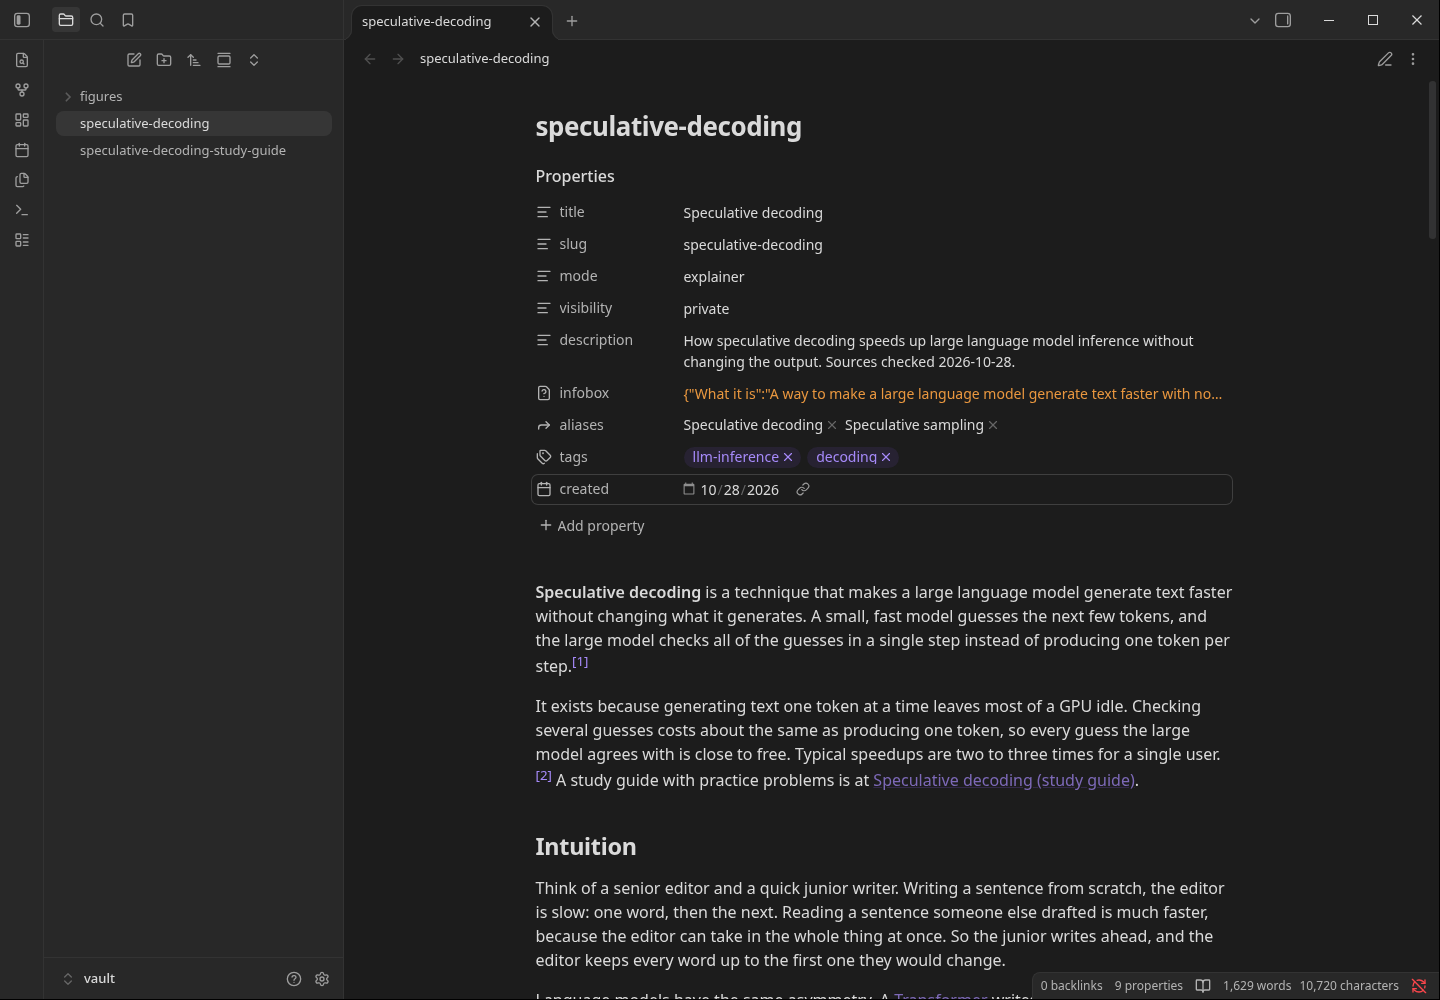
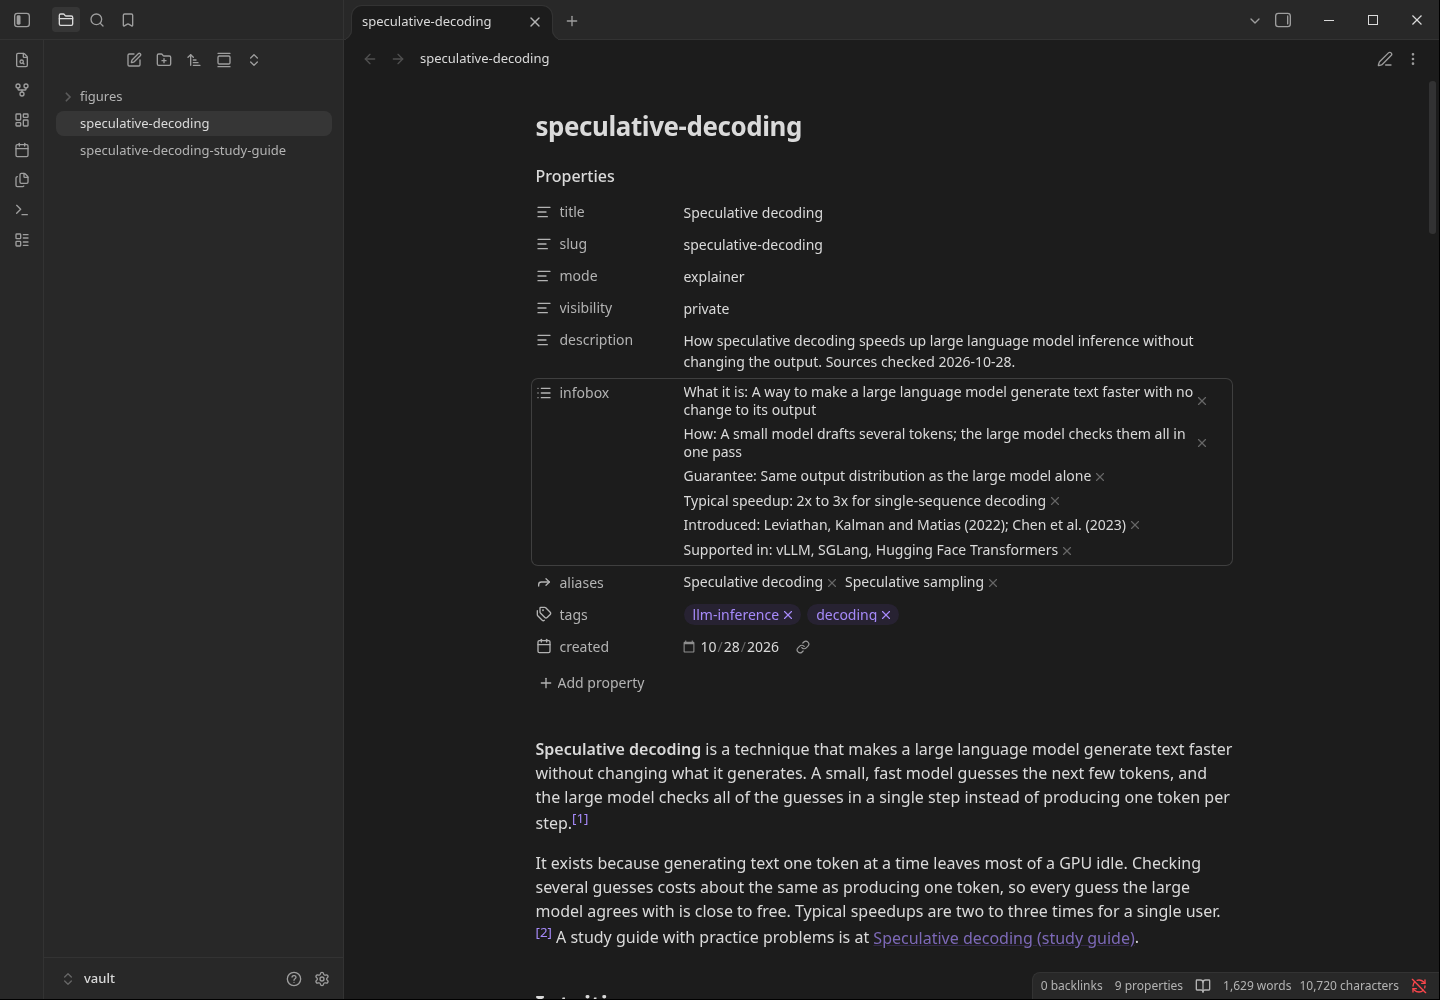
Infobox as a list of Label: value strings so Obsidian shows clean properties; tree/flow/comparison component rule

Changed region(s): [[0.375, 0.372, 0.8438, 1.0], [0.375, 0.372, 0.4375, 0.527]]

diff --git a/test/render.test.js b/test/render.test.js
@@ -305,3 +305,16 @@ test('See also drops entries with no page behind them, and hides the section whe
   const body = renderArticle('Lead.\n\n## Body\n\n- Compare [[Ghost page]].\n', { known });
   assert.match(body, /<li>Compare Ghost page\.<\/li>/);
 });
+
+test('infobox as a list of "Label: value" strings: rows in order, empty values hidden; the examples use it so Obsidian shows a clean list property', () => {
+  const out = renderArticle('---\ntitle: T\ninfobox:\n  - "First: one"\n  - "Released:"\n  - "Ratio: 2:1 at best"\n---\nLead.\n', { known: new Set() });
+  const box = out.match(/<table class="infobox"[\s\S]*?<\/table>/)[0];
+  const labels = [...box.matchAll(/<th[^>]*>([^<]*)<\/th>/g)].map((m) => m[1]);
+  assert.deepEqual(labels, ['First', 'Ratio']);
+  assert.match(box, /2:1 at best/);
+  const matter = require('gray-matter');
+  for (const f of ['speculative-decoding.md', 'speculative-decoding-study-guide.md']) {
+    const data = matter(fs.readFileSync(path.join(__dirname, '..', 'examples', f), 'utf8')).data;
+    assert.ok(Array.isArray(data.infobox) && data.infobox.every((r) => typeof r === 'string'), `${f} infobox is a list of strings`);
+  }
+});

diff --git a/skill/SKILL.md b/skill/SKILL.md
@@ -14,7 +14,7 @@ Work through this before and after writing. Each item is expanded further down.
 3. **Sources first.** Read the real repos, files, papers and docs before writing. Cite every claim that is not common knowledge to a source you opened. Never invent a fact, number, URL, author or quote; if a fact is not in your sources, leave it out.
 4. **Style.** No emojis. No em dashes (use a comma, colon, parentheses or a new sentence). No eyebrow labels above headings. No 01/02/03 numbering; the renderer's Contents numbering (1, 1.1, 2) is the only numbering. No icons.
 5. **Quality bar.** A plain-language lead a newcomer understands on first read, intuition before definitions or formalism, and at least one fully worked walk-through with concrete values.
-6. **Components.** When the content is structurally a comparison, use the component for it rather than prose (see Components).
+6. **Components.** When the content is structurally a tree, a flow or a comparison, use the component for it rather than prose (see Components).
 7. **Publish.** Frontmatter has `title`, `slug`, `mode` and `visibility`; the render runs with no warnings; then follow Publishing exactly.
 
 The output is one Markdown file. It must read cleanly as a plain note in Obsidian or any Markdown viewer, and it must render to a full article page with `node renderer/render.js article.md > article.html`. The Markdown file is the source of truth; never edit the generated HTML.
@@ -144,7 +144,7 @@ A `## See also` section is a plain list of `[[wikilinks]]`, one per entry, optio
 
 Renderer components and when to use each. More components and their syntax will be documented here (wiki#6); until then the available ones are wikilinks, figures, tables, footnotes, highlights, callouts, and the study-mode blocks above.
 
-- Use a component whenever the content is structurally a comparison (a table, or a wrong/right pair in study mode), a flow (a figure), or a set of steps (a numbered list), instead of describing the structure in prose.
+- Use a component whenever the content is structurally a tree (a nested list: file trees, taxonomies, decision trees), a flow (a figure), a comparison (a table, or a wrong/right pair in study mode), or a set of steps (a numbered list), instead of describing the structure in prose.
 
 ## Publishing
 
@@ -173,10 +173,10 @@ mode: explainer
 visibility: private
 description: "One muted line shown under the title: scope, date written, and any caveat."
 infobox:
-  What it is: A way to make a large language model generate text faster with no change to its output
-  How: A small model drafts several tokens; the large model checks them all in one pass
-  Typical speedup: 2x to 3x for single-sequence decoding
-  Introduced: "Leviathan, Kalman and Matias (2022)"
+  - "What it is: A way to make a large language model generate text faster with no change to its output"
+  - "How: A small model drafts several tokens; the large model checks them all in one pass"
+  - "Typical speedup: 2x to 3x for single-sequence decoding"
+  - "Introduced: Leviathan, Kalman and Matias (2022)"
 image: figures/diagram.svg
 caption: "Optional infobox image caption"
 tags: [llm-inference]
@@ -187,7 +187,7 @@ created: 2026-10-28
 - `aliases`: always include the title, so `[[Title]]` links resolve in Obsidian to the slug-named file; add other names people search for.
 - `mode`: `explainer` (default) or `study`. Any other value falls back to explainer with a warning. It never shows on the page.
 - `visibility`: `private` (default for articles an agent writes) or `public` (only when the owner says so). Used by the publishing site; see Publishing.
-- `infobox`: four to eight short rows. In an explainer, hard facts (what it is, how, key numbers, introduced by, where it is supported); in study mode, the quick-reference card. Keep values short and plain text (Obsidian shows frontmatter as properties); no long formulas that would be cramped or cut off at phone width. Quote a value that contains a colon. Rows with an empty value are skipped. A list of `"Label: value"` strings also works, and `infobox_caption` overrides the caption, which defaults to the title.
+- `infobox`: four to eight short rows. In an explainer, hard facts (what it is, how, key numbers, introduced by, where it is supported); in study mode, the quick-reference card. Keep values short and plain text (Obsidian shows frontmatter as properties); no long formulas that would be cramped or cut off at phone width. Write it as a list of quoted `"Label: value"` strings, one per row, in display order; the label ends at the first colon. Obsidian's properties panel cannot show a nested map (it shows one as raw JSON), but it shows a list cleanly. A nested `Label: value` map still renders the same rows. A row with an empty value (`"Released:"`) is skipped. `infobox_caption` overrides the caption, which defaults to the title.
 - `image` and `caption` are optional and show as the first infobox row.
 
 ## Checklist before finishing

diff --git a/examples/speculative-decoding-study-guide.md b/examples/speculative-decoding-study-guide.md
@@ -6,12 +6,12 @@ mode: study
 visibility: private
 description: "Study-mode article for a course or interview on LLM inference. For the plain explanation see the explainer. Sources checked 2026-10-28."
 infobox:
-  The idea: "A small model guesses the next few tokens; the big model checks all the guesses in one step"
-  Memory phrase: "Draft cheap, verify once, keep the agreeing prefix"
-  Use it when: "One user is waiting on a big model and the GPU is idle between memory reads"
-  Tiny example: "Draft *on the mat*; the big model agrees with *on the*, writes *sofa* itself: 3 tokens for one big step"
-  Guarantee: "Same output distribution as the big model alone"
-  Typical speedup: "2x to 3x for single-sequence decoding"
+  - "The idea: A small model guesses the next few tokens; the big model checks all the guesses in one step"
+  - "Memory phrase: Draft cheap, verify once, keep the agreeing prefix"
+  - "Use it when: One user is waiting on a big model and the GPU is idle between memory reads"
+  - "Tiny example: Draft *on the mat*; the big model agrees with *on the*, writes *sofa* itself: 3 tokens for one big step"
+  - "Guarantee: Same output distribution as the big model alone"
+  - "Typical speedup: 2x to 3x for single-sequence decoding"
 tags: [llm-inference, decoding, learning]
 created: 2026-10-28
 ---

diff --git a/examples/speculative-decoding.md b/examples/speculative-decoding.md
@@ -5,12 +5,12 @@ mode: explainer
 visibility: private
 description: "How speculative decoding speeds up large language model inference without changing the output. Sources checked 2026-10-28."
 infobox:
-  What it is: "A way to make a large language model generate text faster with no change to its output"
-  How: "A small model drafts several tokens; the large model checks them all in one pass"
-  Guarantee: "Same output distribution as the large model alone"
-  Typical speedup: "2x to 3x for single-sequence decoding"
-  Introduced: "Leviathan, Kalman and Matias (2022); Chen et al. (2023)"
-  Supported in: "vLLM, SGLang, Hugging Face Transformers"
+  - "What it is: A way to make a large language model generate text faster with no change to its output"
+  - "How: A small model drafts several tokens; the large model checks them all in one pass"
+  - "Guarantee: Same output distribution as the large model alone"
+  - "Typical speedup: 2x to 3x for single-sequence decoding"
+  - "Introduced: Leviathan, Kalman and Matias (2022); Chen et al. (2023)"
+  - "Supported in: vLLM, SGLang, Hugging Face Transformers"
 aliases: [Speculative decoding, Speculative sampling]
 tags: [llm-inference, decoding]
 created: 2026-10-28

diff --git a/test/fixtures/verify/explainer.md b/test/fixtures/verify/explainer.md
@@ -5,12 +5,12 @@ mode: explainer
 visibility: private
 description: "How speculative decoding speeds up large language model inference without changing the output. Sources checked 2026-10-28."
 infobox:
-  What it is: "A way to make a large language model generate text faster with no change to its output"
-  How: "A small model drafts several tokens; the large model checks them all in one pass"
-  Guarantee: "Same output distribution as the large model alone"
-  Typical speedup: "2x to 3x for single-sequence decoding"
-  Introduced: "Leviathan, Kalman and Matias (2022); Chen et al. (2023)"
-  Supported in: "vLLM, SGLang, Hugging Face Transformers"
+  - "What it is: A way to make a large language model generate text faster with no change to its output"
+  - "How: A small model drafts several tokens; the large model checks them all in one pass"
+  - "Guarantee: Same output distribution as the large model alone"
+  - "Typical speedup: 2x to 3x for single-sequence decoding"
+  - "Introduced: Leviathan, Kalman and Matias (2022); Chen et al. (2023)"
+  - "Supported in: vLLM, SGLang, Hugging Face Transformers"
 aliases: [Speculative decoding, Speculative sampling]
 tags: [llm-inference, decoding]
 created: 2026-10-28

diff --git a/.cursor/skills/verify-wiki-skill/features/obsidian.md b/.cursor/skills/verify-wiki-skill/features/obsidian.md
@@ -12,4 +12,4 @@ Copy the note and its `figures/` into a vault and open it in reading view.
 Start `Xvfb :43 -screen 0 1440x1000x24` and record its PID, launch the Obsidian AppImage with `DISPLAY=:43` and a vault whose `.obsidian/workspace.json` opens the note in preview, then capture with `import -window root` and scroll with `xdotool click 5`. Kill Obsidian and Xvfb by their PIDs.
 
 ## Gotchas
-Obsidian shows the nested `infobox` map as raw JSON in the properties panel. The list form (`- "Label: value"`) displays as a list.
+The examples write `infobox` as a list of `"Label: value"` strings, which the properties panel shows as a clean list (see `docs/screenshots/obsidian-*-top.png`). A nested map would show as raw JSON there, so SKILL.md tells agents to use the list form.
